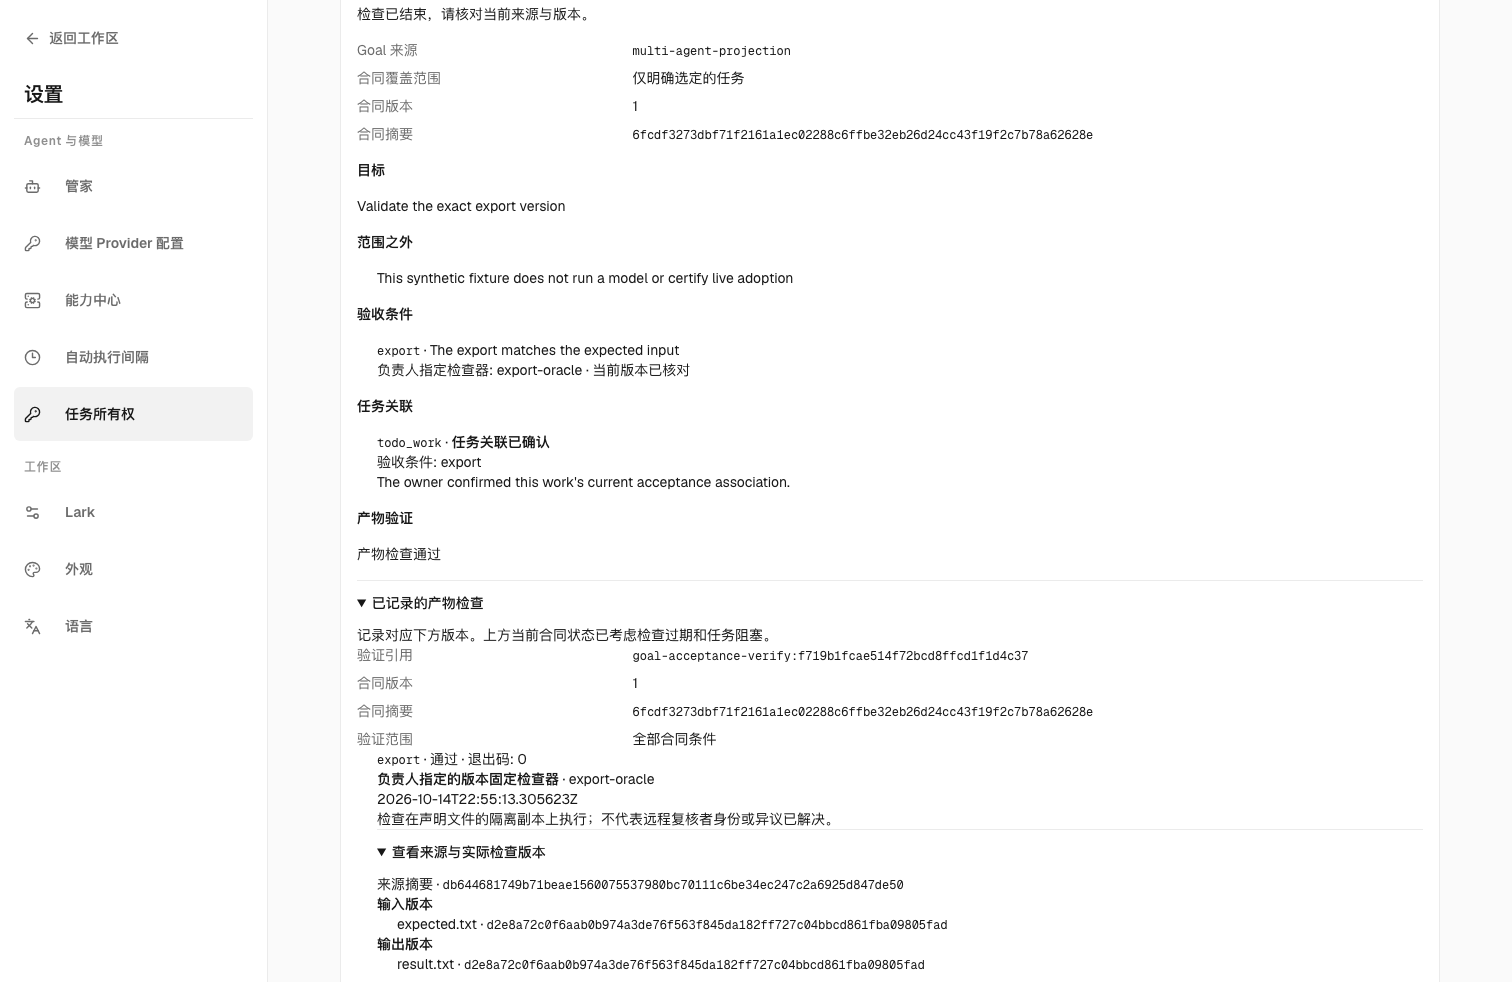
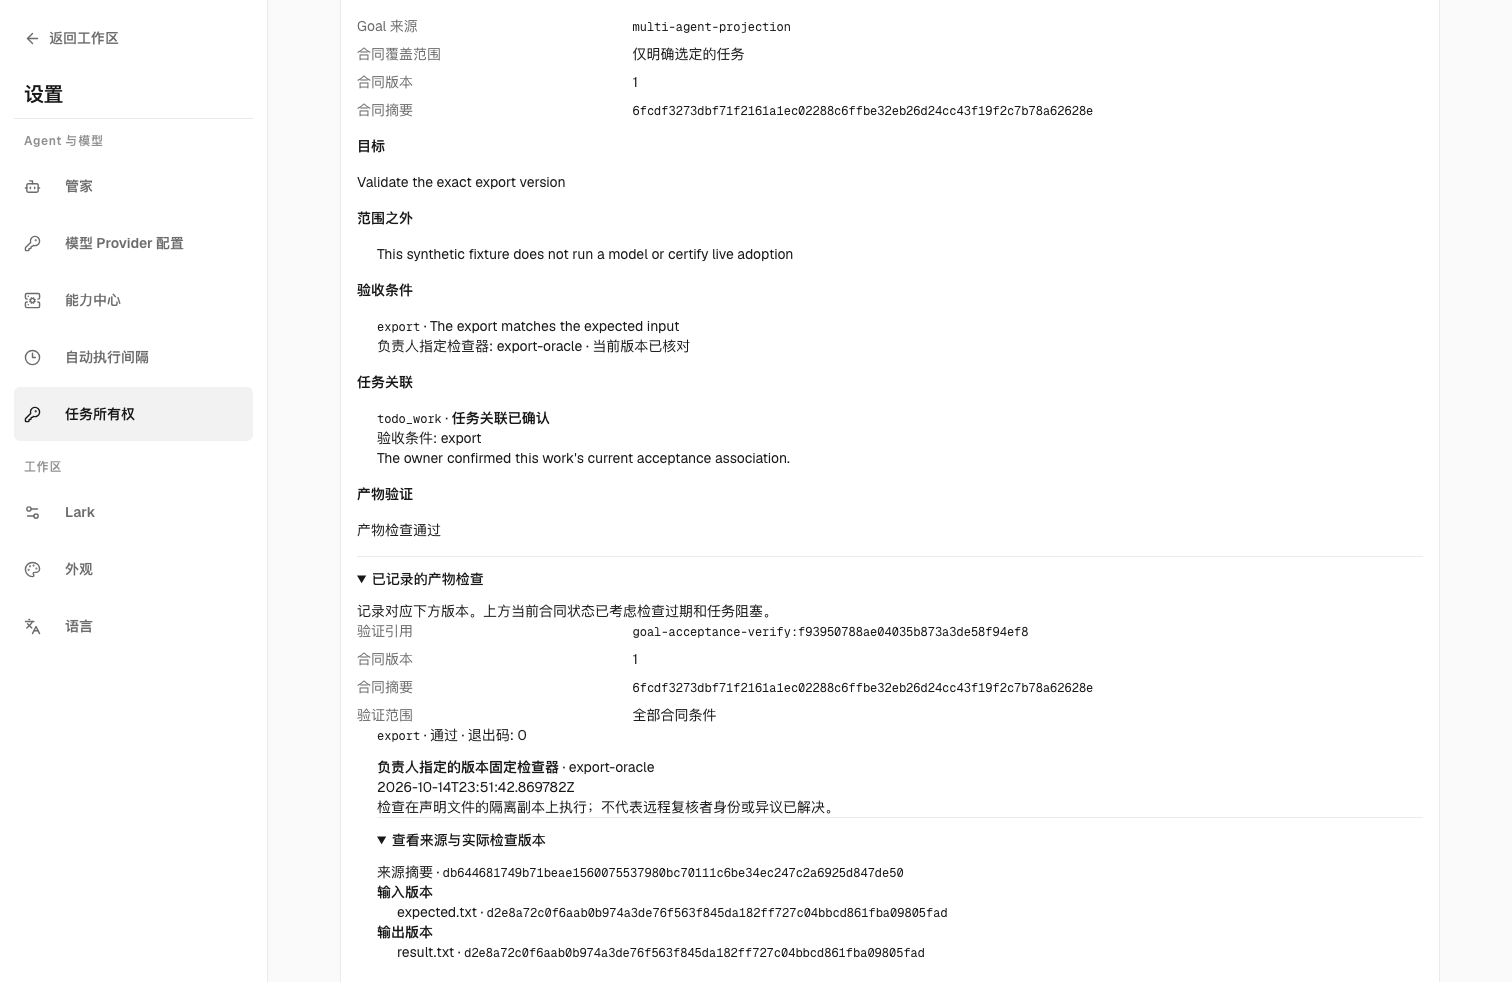
fix(acceptance): preserve settings controls and valid spacing

Changed region(s): [[0.2176, 0.0, 0.7149, 1.0], [0.4041, 0.0305, 0.7149, 0.1527]]

diff --git a/apps/presentation/dashboard/src/features/personal-workspace/delivery-review.css b/apps/presentation/dashboard/src/features/personal-workspace/delivery-review.css
@@ -4,11 +4,11 @@
 .delivery-review h3 { font-size: var(--text-lead); line-height: var(--leading-lead); font-weight: 600; }
 .delivery-review h4 { font-size: var(--text-body); line-height: var(--leading-body); }
 .delivery-review p { line-height: 1.6; overflow-wrap: anywhere; }
-.delivery-review button, .delivery-review select, .delivery-review input { color: inherit; font: inherit; }
-.delivery-review button, .delivery-review select { border: 1px solid var(--pw-line); border-radius: 6px; background: var(--pw-card); min-height: 44px; padding: 8px 12px; cursor: pointer; }
-.delivery-review button:disabled { opacity: .5; cursor: not-allowed; }
+:is(.delivery-review, .delivery-acceptance-contract) :is(button, select, input) { color: inherit; font: inherit; }
+:is(.delivery-review, .delivery-acceptance-contract) :is(button, select), .delivery-acceptance-controls input::file-selector-button { border: 1px solid var(--pw-line); border-radius: 6px; background: var(--pw-card); min-height: 44px; padding: 8px 12px; cursor: pointer; }
+:is(.delivery-review, .delivery-acceptance-contract) button:disabled, .delivery-acceptance-controls input:disabled::file-selector-button { opacity: .5; cursor: not-allowed; }
 .delivery-review button[aria-pressed="true"] { border-color: var(--pw-text); background: var(--pw-hover, var(--pw-card)); }
-.delivery-review :is(button, input, select, summary, [tabindex]):focus-visible { outline: 2px solid var(--color-link, #0070f3); outline-offset: 3px; }
+:is(.delivery-review, .delivery-acceptance-contract) :is(button, input, select, summary, [tabindex]):focus-visible { outline: 2px solid var(--color-link, #0070f3); outline-offset: 3px; }
 .delivery-review-toolbar, .delivery-chain-toolbar { display: flex; gap: 12px; align-items: center; justify-content: space-between; flex-wrap: wrap; }
 .delivery-review-toolbar > div, .delivery-chain-toolbar > div, .delivery-source-actions { display: flex; gap: 8px; flex-wrap: wrap; }
 .delivery-review-toolbar button, .delivery-source-actions button { display: inline-flex; gap: 8px; align-items: center; }
@@ -96,9 +96,9 @@
 
 .delivery-notice summary { cursor: pointer; min-height: 24px; }
 
-.delivery-acceptance-controls { display: flex; flex-wrap: wrap; align-items: center; gap: var(--space-3); }
+.delivery-acceptance-controls { display: flex; flex-wrap: wrap; align-items: center; gap: 12px; }
 .delivery-acceptance-controls label, .delivery-acceptance-controls details { flex-basis: 100%; min-width: 0; }
-.delivery-acceptance-controls input { display: block; max-width: 100%; margin-block-start: var(--space-2); }
+.delivery-acceptance-controls input { display: block; max-width: 100%; margin-block-start: 8px; }
 .delivery-acceptance-controls pre { white-space: pre-wrap; overflow-wrap: anywhere; max-height: 20rem; overflow: auto; }
-.delivery-oracle-evidence { margin-block: var(--space-3); overflow-wrap: anywhere; }
+.delivery-oracle-evidence { margin-block: 12px; overflow-wrap: anywhere; }
 .delivery-oracle-evidence code { overflow-wrap: anywhere; word-break: break-word; }
